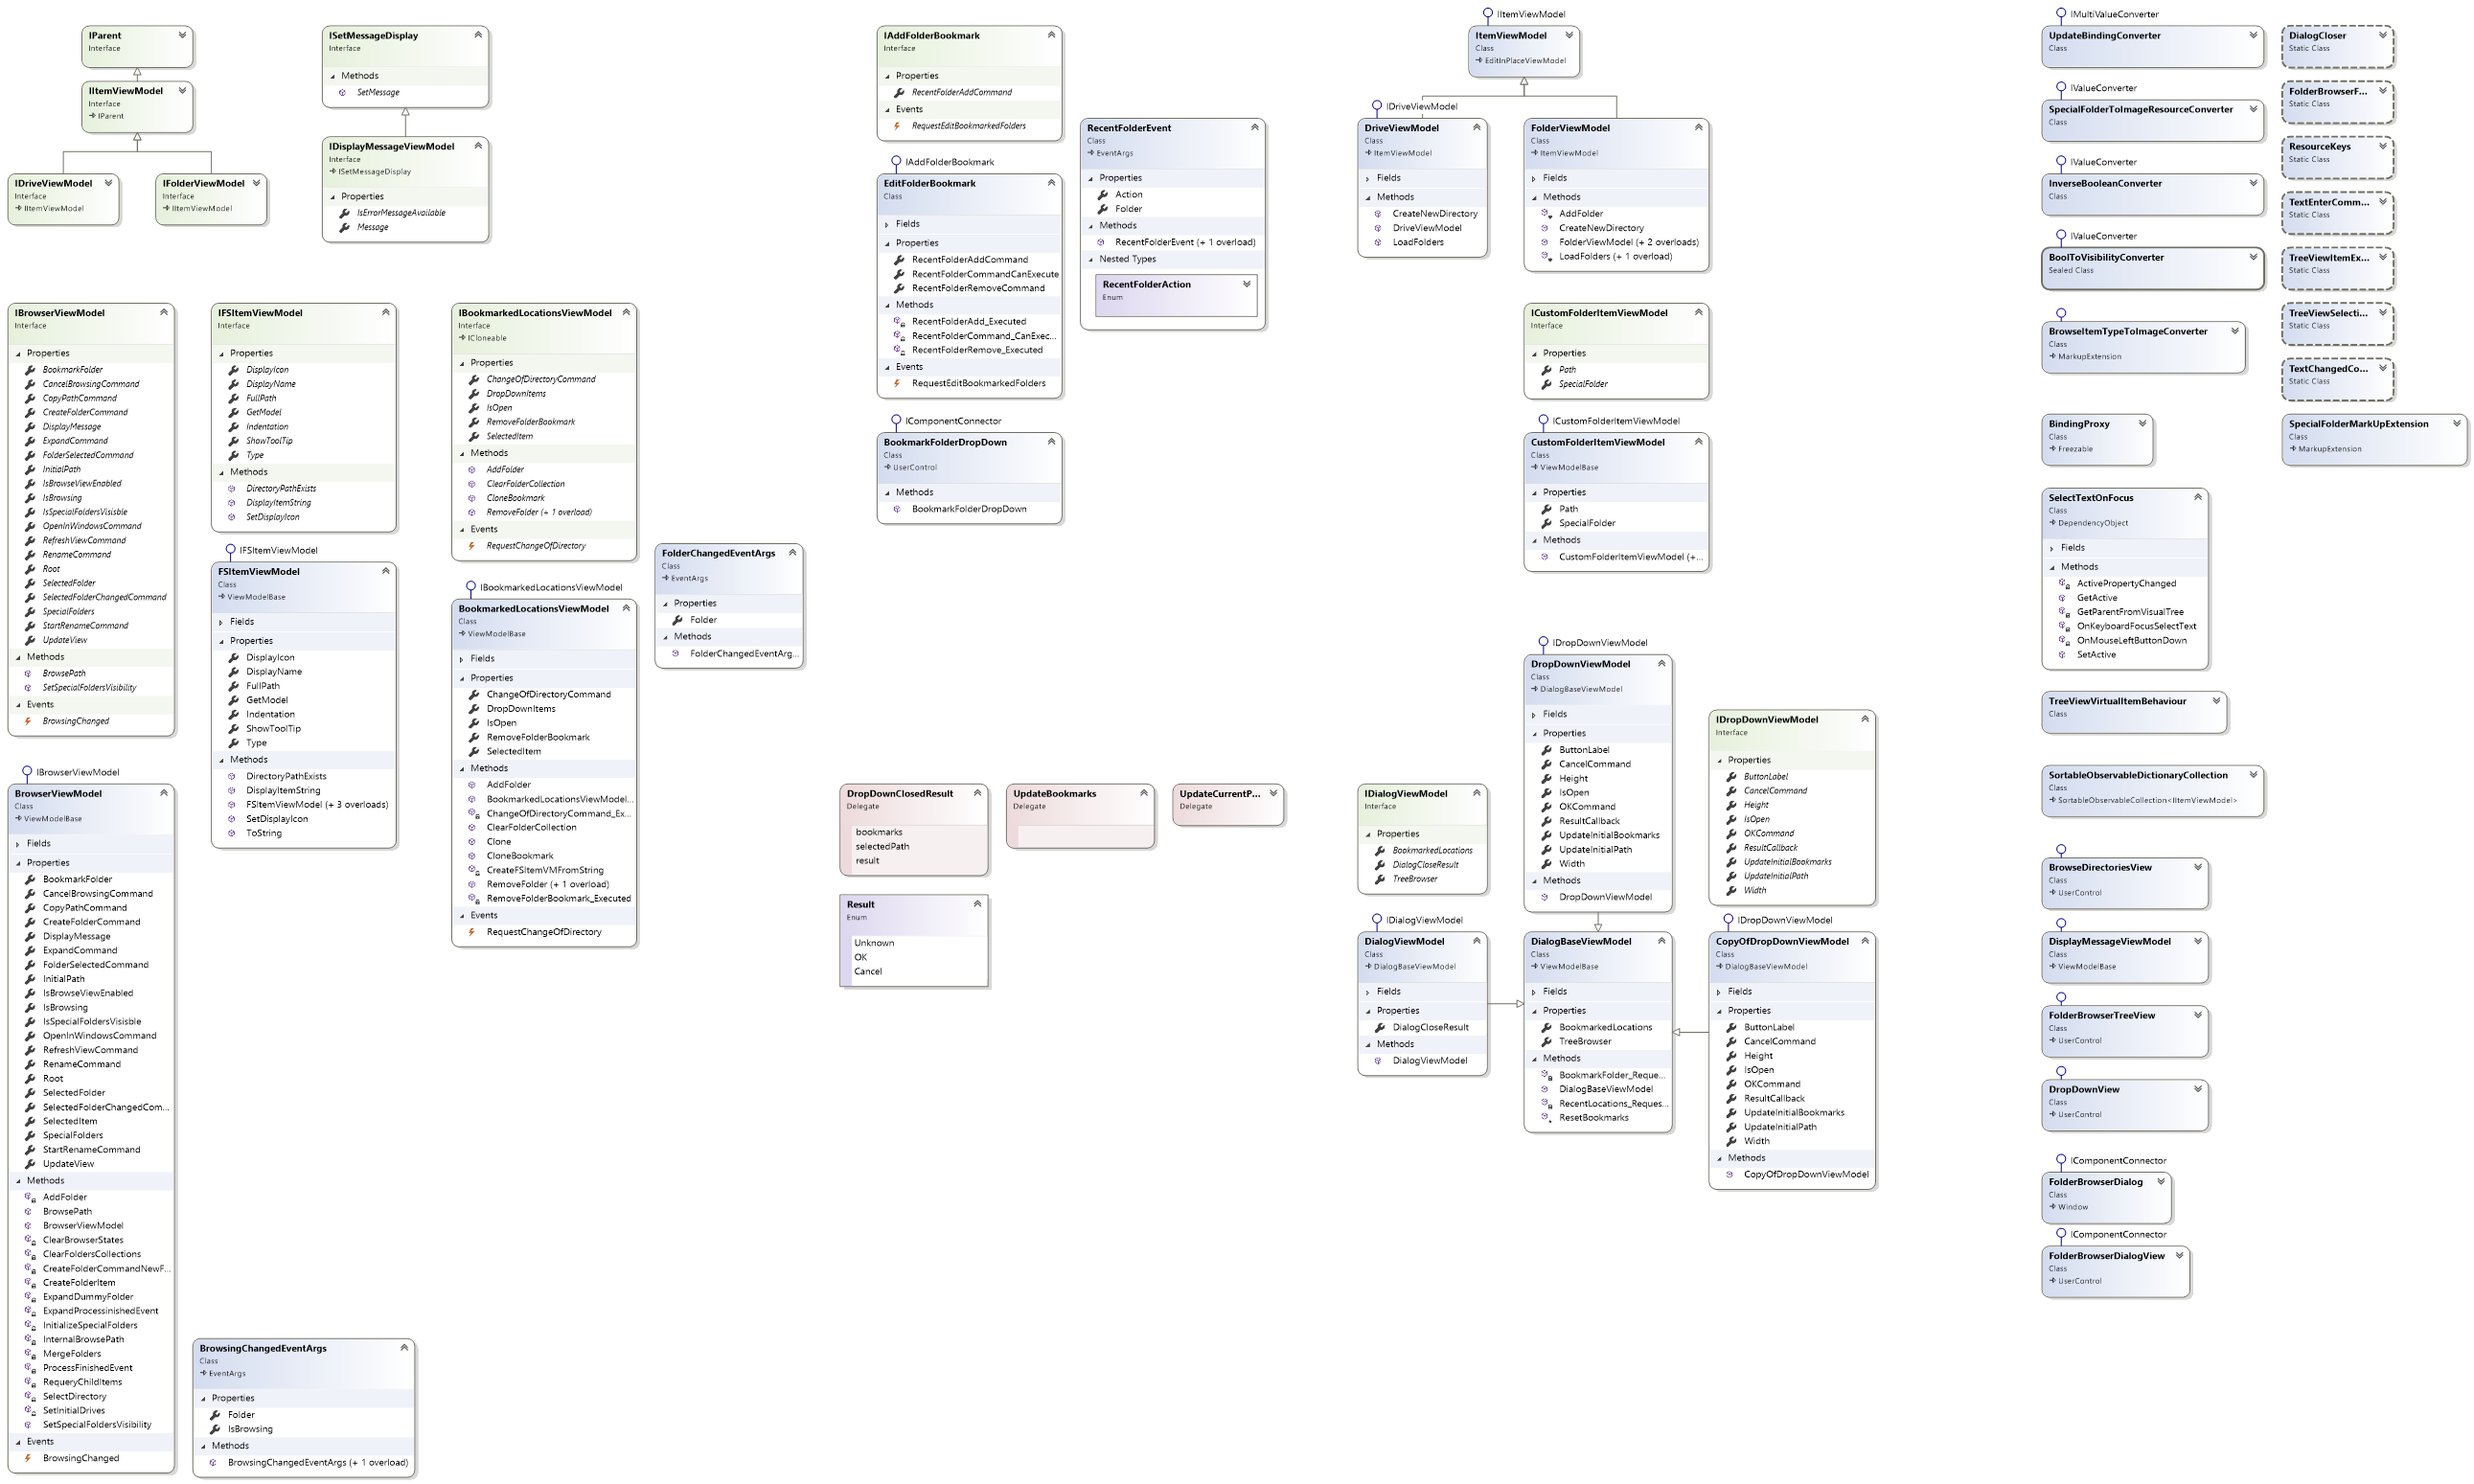
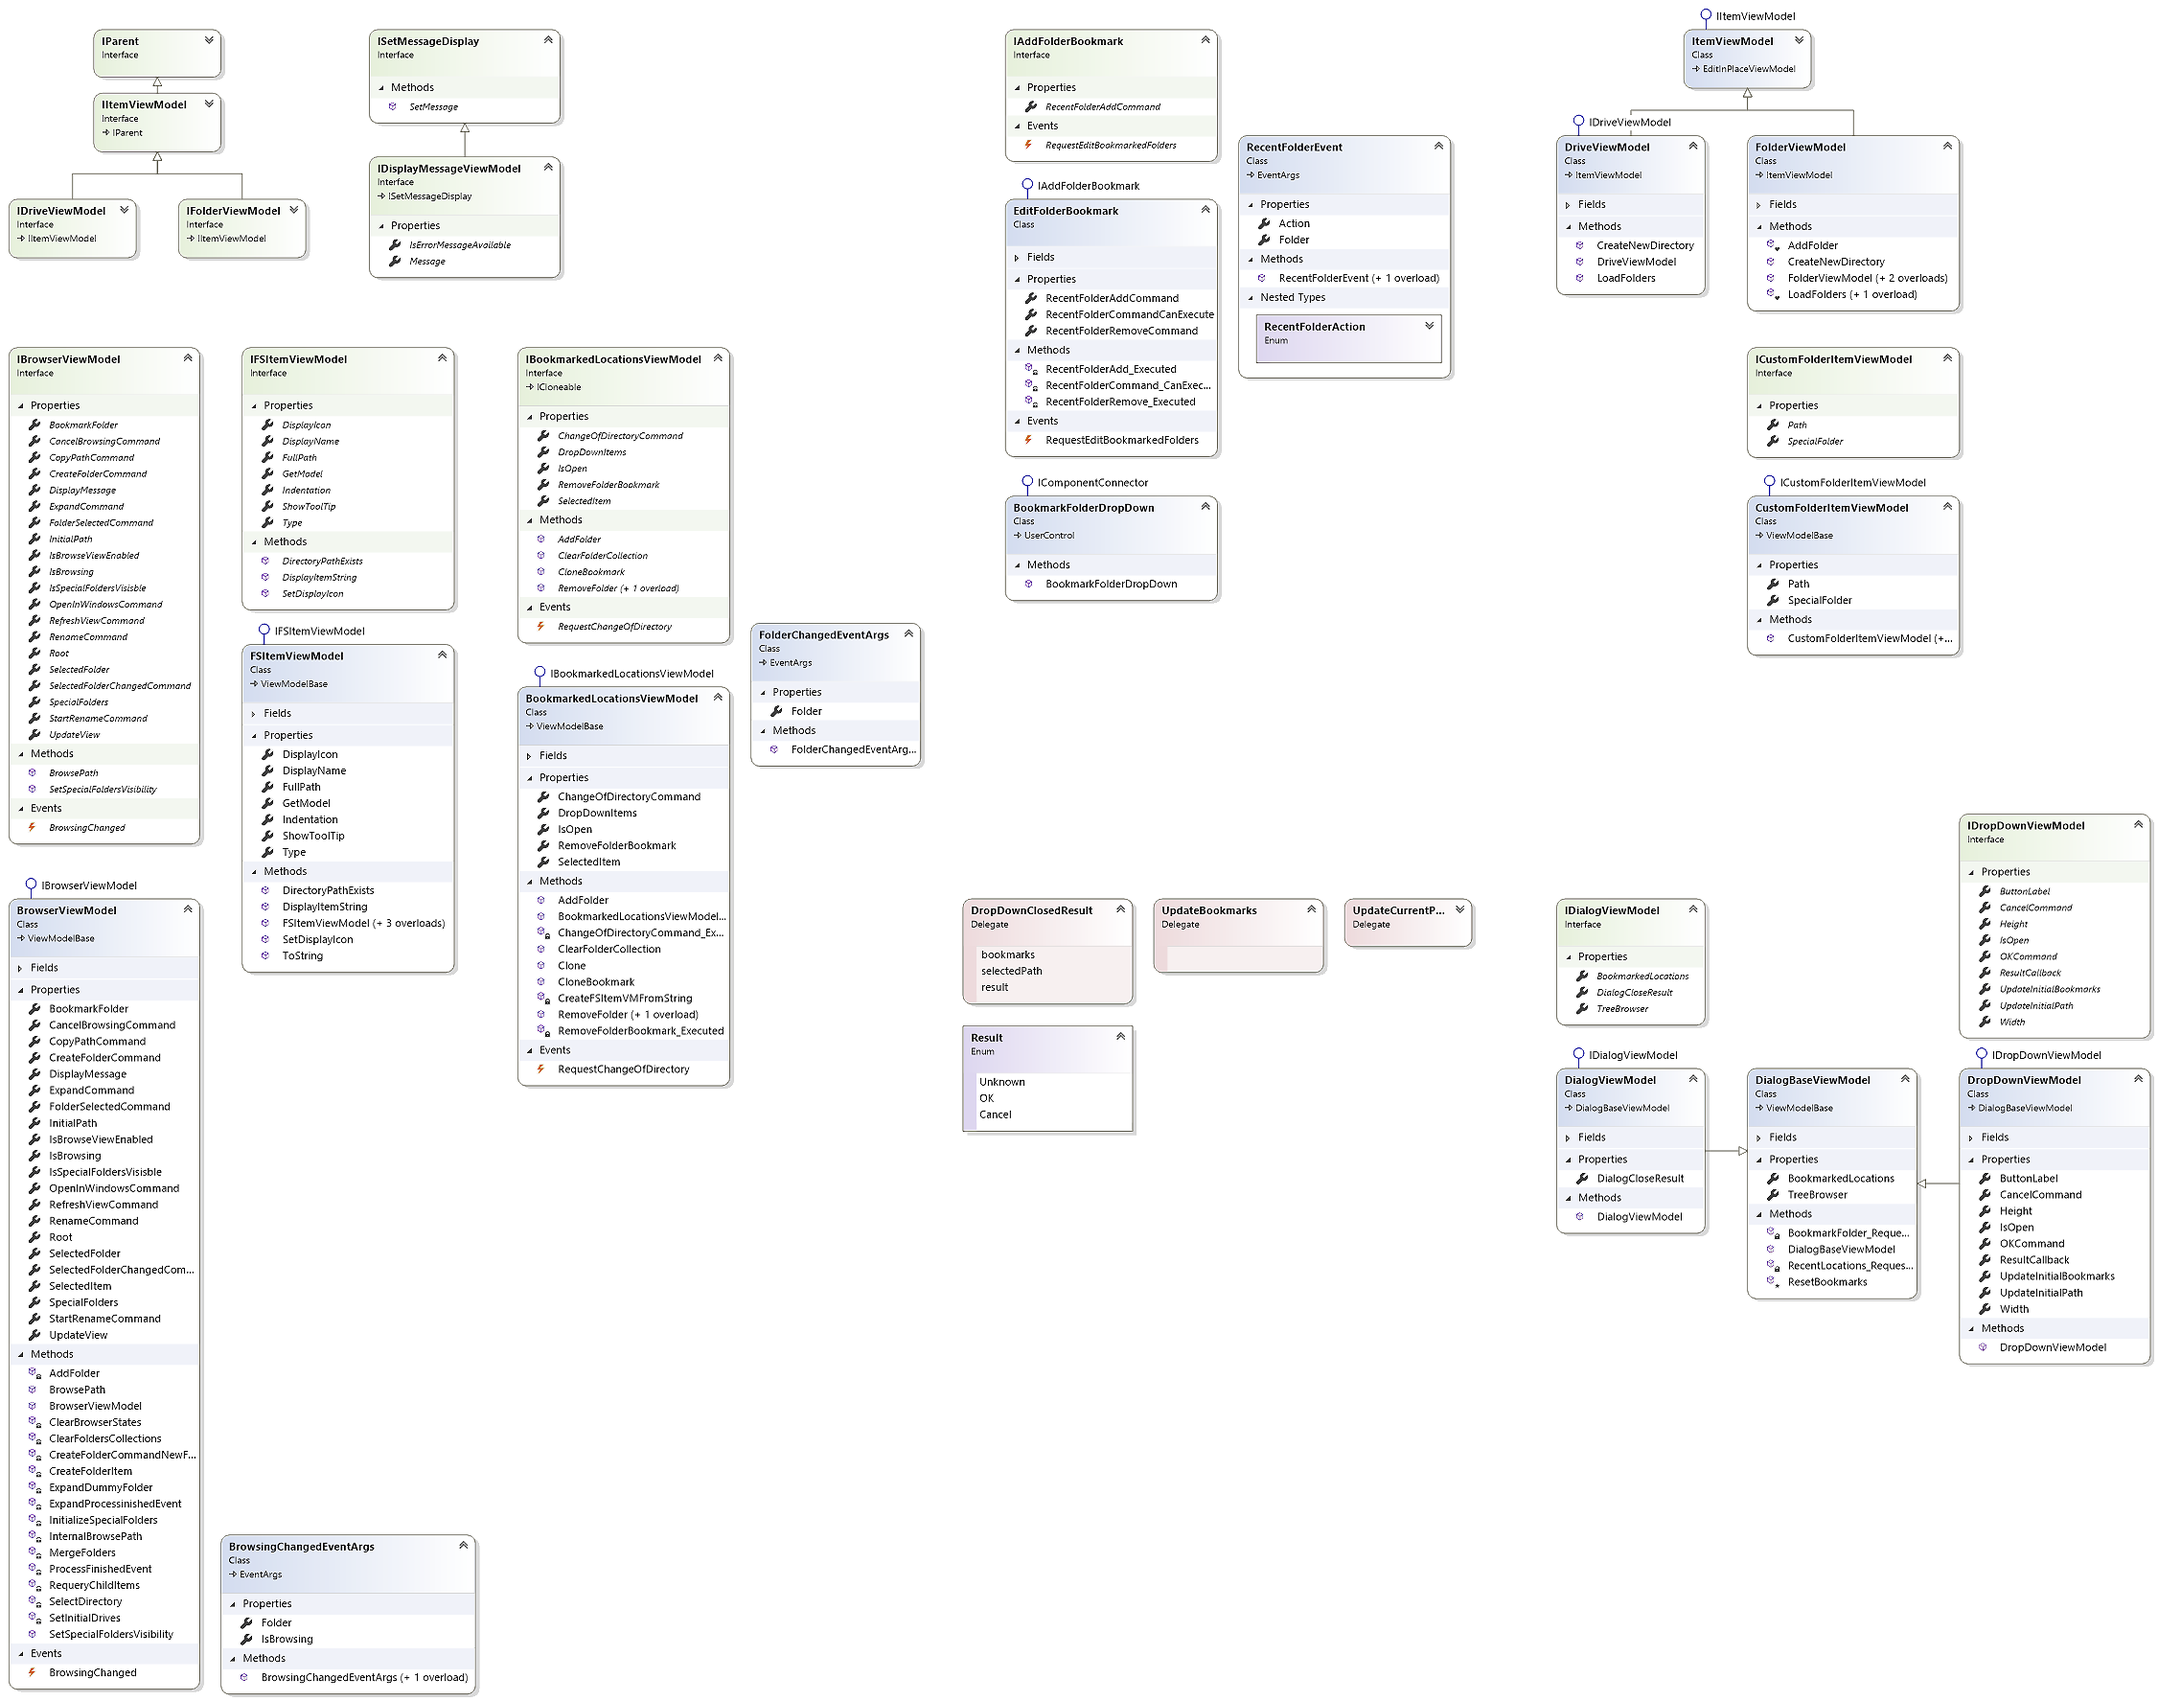
Removed CopyOfDropDownViewModel

diff --git a/source/More_Components/fs3_Components/FolderBrowser/ViewModels/Dialogs/DropDownViewModel .cs b/source/More_Components/fs3_Components/FolderBrowser/ViewModels/Dialogs/DropDownViewModel .cs
@@ -205,205 +205,4 @@ namespace FolderBrowser.Dialogs.ViewModels
         }
         #endregion properties
     }
-
-    /// <summary>
-    /// A viewmodel in MVVM style to drive a folder browser
-    /// or folder picker view that is display in a WPF drop
-    /// down button view.
-    /// </summary>
-    internal class CopyOfDropDownViewModel : DialogBaseViewModel, IDropDownViewModel
-    {
-        #region fields
-        private double mWidth = 600;
-        private double mHeight = 400;
-        private bool mIsOpen = false;
-
-        private RelayCommand<object> mOKCommand;
-        private RelayCommand<object> mCancelCommand;
-        private string mButtonLabel = "Select a Folder";
-        private UpdateCurrentPath mUpdateInitialPath;
-        private UpdateBookmarks mUpdateInitialBookmarks;
-        #endregion fields
-
-        #region constructor
-        /// <summary>
-        /// Class constructor
-        /// </summary>
-        public CopyOfDropDownViewModel(
-            IBrowserViewModel treeBrowser,
-            IBookmarkedLocationsViewModel recentLocations,
-            DropDownClosedResult resultCallback)
-            : base(treeBrowser, recentLocations)
-        {
-            ResultCallback = resultCallback;
-        }
-        #endregion constructor
-
-        #region properties
-        /// <summary>
-        /// Gets/sets a property that can be used to specify a delegete method that is called upon
-        /// close of the drop down button element.
-        /// </summary>
-        public DropDownClosedResult ResultCallback { get; private set; }
-
-        /// <summary>
-        /// Gets/sets the width of the drop down control.
-        /// </summary>
-        public double Width
-        {
-            get
-            {
-                return mWidth;
-            }
-
-            set
-            {
-                if (mWidth != value)
-                {
-                    mWidth = value;
-                    RaisePropertyChanged(() => Width);
-                }
-            }
-        }
-
-        /// <summary>
-        /// Gets/sets the height of the drop down control.
-        /// </summary>
-        public double Height
-        {
-            get
-            {
-                return mHeight;
-            }
-
-            set
-            {
-                if (mHeight != value)
-                {
-                    mHeight = value;
-                    RaisePropertyChanged(() => Height);
-                }
-            }
-        }
-
-        /// <summary>
-        /// Gets the selected item of the DropDown viewmodel.
-        /// </summary>
-        public string ButtonLabel
-        {
-            get
-            {
-                return mButtonLabel;
-            }
-
-            set
-            {
-                if (mButtonLabel != value)
-                {
-                    mButtonLabel = value;
-                    RaisePropertyChanged(() => ButtonLabel);
-                }
-            }
-        }
-
-        /// <summary>
-        /// Gets/sets bound property to determine whether
-        /// drop-down/pop-up element is open or not.
-        /// </summary>
-        public bool IsOpen
-        {
-            get
-            {
-                return this.mIsOpen;
-            }
-
-            set
-            {
-                if (this.mIsOpen != value)
-                {
-                    if (this.mIsOpen == false && value == true)
-                    {
-                        if (UpdateInitialPath != null)
-                            TreeBrowser.InitialPath = UpdateInitialPath();
-
-                        if (UpdateInitialBookmarks != null)
-                            base.ResetBookmarks(UpdateInitialBookmarks());
-                    }
-
-                    this.mIsOpen = value;
-                    this.RaisePropertyChanged(() => this.IsOpen);
-                }
-            }
-        }
-
-        public UpdateCurrentPath UpdateInitialPath
-        {
-            get
-            {
-                return this.mUpdateInitialPath;
-            }
-
-            set
-            {
-                if (this.mUpdateInitialPath != value)
-                    this.mUpdateInitialPath = value;
-            }
-        }
-
-        public UpdateBookmarks UpdateInitialBookmarks
-        {
-            get
-            {
-                return this.mUpdateInitialBookmarks;
-            }
-
-            set
-            {
-                if (this.mUpdateInitialBookmarks != value)
-                    this.mUpdateInitialBookmarks = value;
-            }
-        }
-
-
-        /// <summary>
-        /// Gets a command to implement the Cancel (button) click command.
-        /// </summary>
-        public ICommand CancelCommand
-        {
-            get
-            {
-                if (this.mCancelCommand == null)
-                    this.mCancelCommand = new RelayCommand<object>((p) =>
-                    {
-                        if (ResultCallback != null)
-                            ResultCallback(BookmarkedLocations, TreeBrowser.SelectedFolder, Result.Cancel);
-
-                        this.IsOpen = false;
-                    });
-
-                return this.mCancelCommand;
-            }
-        }
-
-        /// <summary>
-        /// Gets a command to implement the OK (button) click command.
-        /// </summary>
-        public ICommand OKCommand
-        {
-            get
-            {
-                if (this.mOKCommand == null)
-                    this.mOKCommand = new RelayCommand<object>((p) =>
-                    {
-                        if (ResultCallback != null)
-                            ResultCallback(BookmarkedLocations, TreeBrowser.SelectedFolder, Result.OK);
-
-                        this.IsOpen = false;
-                    });
-
-                return this.mOKCommand;
-            }
-        }
-        #endregion properties
-    }
 }
